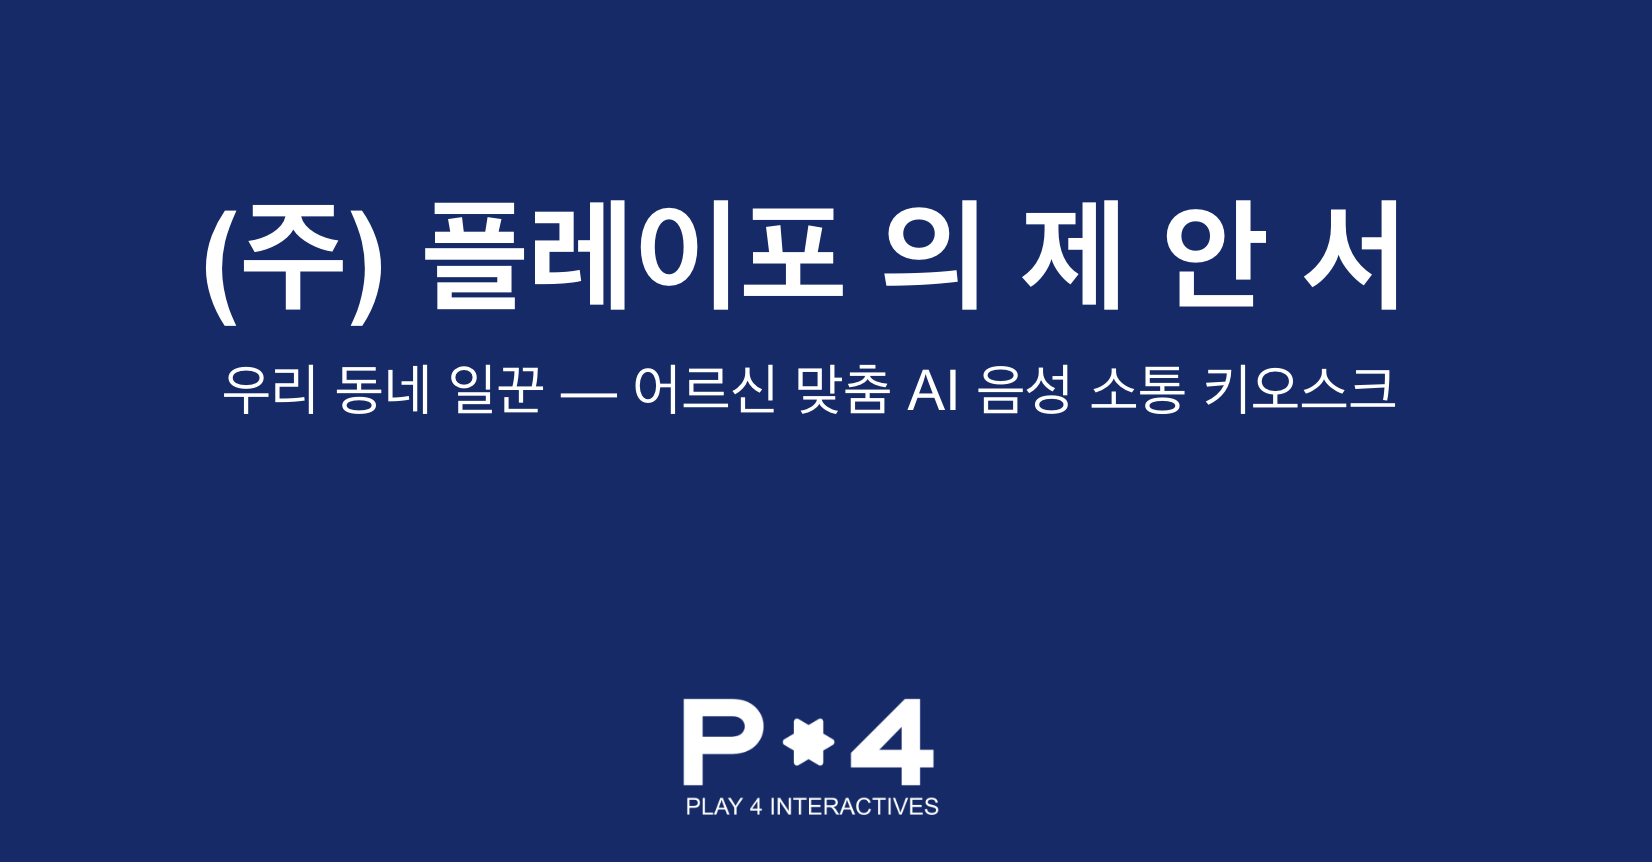
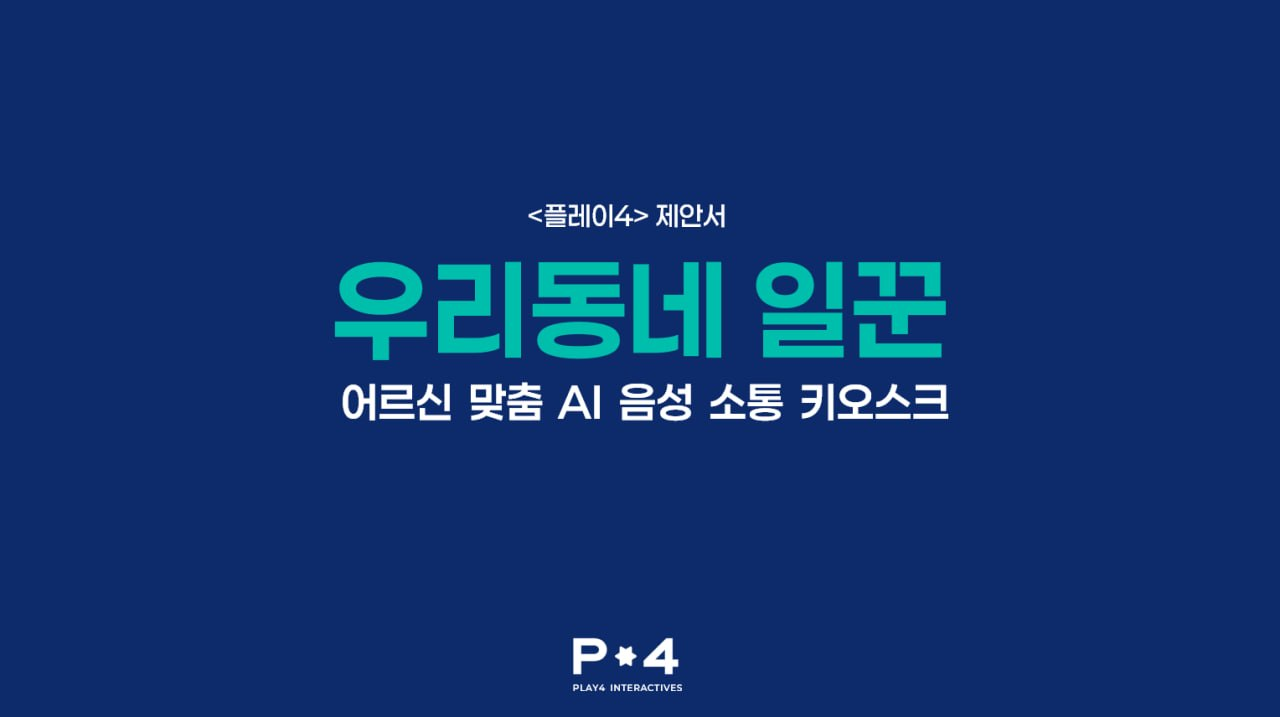
feat(proposal): 표지 이미지 새 버전(제안서표지1)으로 교체 + 배경색 정합

Changed region(s): [[0.125, 0.2148, 0.8438, 0.6137], [0.4062, 0.7978, 0.5625, 0.9819]]

diff --git a/KT-제안서.html b/KT-제안서.html
@@ -47,8 +47,8 @@ tailwind.config = { theme: { extend: {
 </nav>
 
 <!-- ===== S0 회사 표지 ===== -->
-<section class="slide flex flex-col items-center justify-center text-white text-center px-6 pt-16" style="background:#152a67">
-  <img src="assets/proposal/cover.png?v=20260622d" alt="(주)플레이포 제안서 — 우리 동네 일꾼" class="w-full max-w-[860px]"/>
+<section class="slide flex flex-col items-center justify-center text-white text-center px-6 pt-16" style="background:#0d2b6b">
+  <img src="assets/proposal/cover.png?v=20260623e" alt="(주)플레이포 제안서 — 우리 동네 일꾼" class="w-full max-w-[860px]"/>
   <a href="https://www.play4.co.kr" target="_blank" rel="noopener" class="inline-flex items-center gap-1.5 mt-6 text-blue-200 hover:text-white font-bold underline underline-offset-4 transition">
     <span class="material-symbols-outlined text-[18px]">language</span>www.play4.co.kr
   </a>